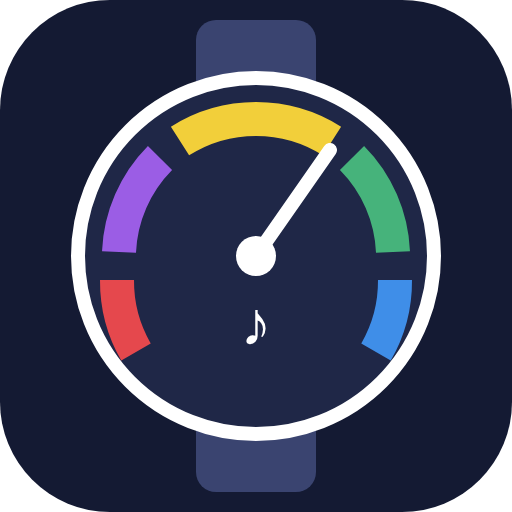
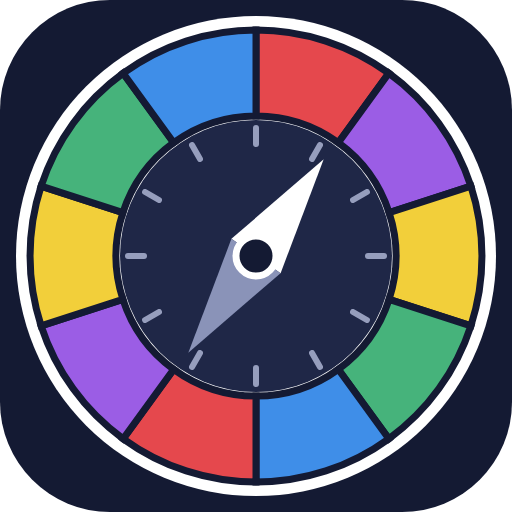
Musikkompass (früher Motion Watch): neuer Name, rundes Symbol, Schieben und Neigen links/rechts entfernt
Claude-Session: https://claude.ai/code/session_01FurwkA9ZNSYg6Y4Y358v2n

diff --git a/motion-watch/index.html b/motion-watch/index.html
@@ -3,15 +3,15 @@
 <head>
 <meta charset="utf-8">
 <meta name="viewport" content="width=device-width, initial-scale=1, viewport-fit=cover">
-<title>Motion Watch</title>
-<meta name="description" content="Motion Watch: Das Smartphone wie eine Uhr ans Handgelenk – durch Neigen spielst du die Töne einer Skala (Dur-/Moll-Pentatonik, Blues …).">
+<title>Musikkompass</title>
+<meta name="description" content="Musikkompass: iPad oder Handy flach hinlegen und Kreise fahren – oder neigen – und die Töne einer Skala spielen (Dur-/Moll-Pentatonik, Blues …).">
 <meta name="theme-color" content="#141a33">
 <link rel="icon" type="image/png" sizes="32x32" href="favicon-32.png">
 <link rel="apple-touch-icon" href="apple-touch-icon.png">
 <link rel="manifest" href="manifest.webmanifest">
 <meta name="apple-mobile-web-app-capable" content="yes">
 <meta name="mobile-web-app-capable" content="yes">
-<meta name="apple-mobile-web-app-title" content="Motion Watch">
+<meta name="apple-mobile-web-app-title" content="Musikkompass">
 <link rel="stylesheet" href="/fonts/fonts.css">
 <script data-goatcounter="https://pati2018.goatcounter.com/count" data-goatcounter-settings='{"path":"/motion-watch/"}' async src="//gc.zgo.at/count.js"></script>
 <style>
@@ -71,7 +71,7 @@
 </head>
 <body>
 <header>
-  <h1>⌚ Motion Watch</h1>
+  <h1><img src="icon.svg" alt="" width="34" height="34" style="vertical-align:-6px;border-radius:9px;margin-right:8px">Musikkompass</h1>
   <button class="knopf" id="bewKnopf" type="button" aria-pressed="false">📱 Bewegung: aus</button>
   <button class="knopf" id="mitteKnopf" type="button" hidden>⊕ Mitte</button>
   <button class="knopf" id="einstKnopf" type="button">⚙ Einstellen</button>
@@ -90,15 +90,13 @@
     <div class="zeile"><span>Anzahl Töne</span><select id="wAnzahl" aria-label="Anzahl Töne"></select></div>
     <div class="zeile"><span>Instrument</span><select id="wInst" aria-label="Instrument"></select></div>
     <div class="zeile"><span>Bewegung</span><select id="wModus" aria-label="Welche Bewegung spielt?">
-      <option value="dreh">🔄 Kreise fahren / drehen (flach)</option><option value="kreis">⭕ Im Kreis schieben (flach)</option>
-      <option value="vh">↕ Neigen vorne/hinten</option><option value="lr">↔ Neigen links/rechts</option></select></div>
-    <div class="zeile" id="zEmpf"><span>Empfindlich</span><select id="wEmpf" aria-label="Wie fest muss man schieben?">
-      <option value="0.4">sehr (kleine Kreise)</option><option value="0.8">mittel</option><option value="1.5">wenig (große Kreise)</option></select></div>
+      <option value="dreh">🔄 Kreise fahren / drehen (flach)</option>
+      <option value="vh">↕ Neigen vorne/hinten</option></select></div>
     <div class="zeile" id="zRicht"><span>Hohe Töne</span><select id="wRicht" aria-label="Wo sind die hohen Töne?">
-      <option value="1">vorne / rechts</option><option value="-1">hinten / links</option></select></div>
+      <option value="1">im Uhrzeigersinn</option><option value="-1">gegen den Uhrzeigersinn</option></select></div>
     <div class="zeile" id="zWeit"><span>Wie weit?</span><select id="wWeit" aria-label="Wie weit neigen?">
       <option value="30">wenig (± 30°)</option><option value="45">mittel (± 45°)</option><option value="60">stark (± 60°)</option></select></div>
-    <p class="tipp">„📱 Bewegung“ einschalten. 🔄 Kreise fahren: iPad/Handy liegt flach (z. B. auf dem Tisch am E-Rolli) und dreht sich mit – eine Runde = alle Töne. ⭕ Schieben: flach im Kreis über den Tisch schieben. Neigen: Handy wie eine Uhr ans Handgelenk. Jeder neue Ton auf der Uhr erklingt.
+    <p class="tipp">„📱 Bewegung“ einschalten. 🔄 Kreise fahren: iPad/Handy liegt flach (z. B. auf dem Tisch am E-Rolli) und dreht sich mit – eine Runde = alle Töne. Neigen: Handy wie eine Uhr ans Handgelenk. Jeder neue Ton auf der Uhr erklingt.
       Ohne Bewegung: Töne antippen, Tasten/SoundWhacker 1–9 oder Pfeiltasten ↑ ↓.</p>
     <button class="knopf" id="fertig" type="button">✓ Fertig</button>
   </div>
@@ -122,9 +120,10 @@ const KLAENGE={marimba:['Marimba',.96],klavier:['Klavier',.84],vibraphon:['Vibra
   klarinette:['Klarinette',.24],sopransax:['Sopransaxophon',.31],altsax:['Altsaxophon',.48],tenorsax:['Tenorsaxophon',.5]};
 const FARBEN=['var(--sw1)','var(--sw2)','var(--sw3)','var(--sw4)','var(--sw5)'];
 const SPEICHER='motion-watch';
-let st={grund:9, skala:'mollpenta', anzahl:10, inst:'marimba', modus:'dreh', empf:0.8, richt:1, weit:45};   // A-Moll-Pentatonik
+let st={grund:9, skala:'mollpenta', anzahl:10, inst:'marimba', modus:'dreh', richt:1, weit:45};   // A-Moll-Pentatonik
 try{Object.assign(st,JSON.parse(localStorage.getItem(SPEICHER)||'{}'))}catch(e){}
-if(!(st.v>=3)){ st.modus='dreh'; st.v=3; }   // neuer Standard: Kreise fahren = drehen (z. B. E-Rolli)
+if(!(st.v>=3)){ st.modus='dreh'; st.v=3; }
+if(st.modus!=='dreh'&&st.modus!=='vh') st.modus='dreh';   // „Im Kreis schieben“ und „Neigen links/rechts“ wurden entfernt   // neuer Standard: Kreise fahren = drehen (z. B. E-Rolli)
 const sichern=()=>{try{localStorage.setItem(SPEICHER,JSON.stringify(st))}catch(e){}};
 
 /* ---------- Töne der Skala ---------- */
@@ -170,7 +169,7 @@ const uhr=document.getElementById('uhr'), NS='http://www.w3.org/2000/svg';
 const el=(n,a)=>{const e=document.createElementNS(NS,n); for(const k in a) e.setAttribute(k,a[k]); return e};
 const pt=(w,r)=>[Math.sin(w*Math.PI/180)*r, -Math.cos(w*Math.PI/180)*r];   // 0° = oben, im Uhrzeigersinn
 let A0=0, A1=360; const R1=238, R0=150;    // rund (Kreise/Drehen) oder Bogen unten links → oben → unten rechts (Neigen)
-const rund=()=>st.modus==='kreis'||st.modus==='dreh';
+const rund=()=>st.modus==='dreh';
 let segs=[], zeiger, gTon, gSkala, gZeit, aktiv=-1;
 function zeichnen(){
   uhr.innerHTML=''; if(rund()){A0=0;A1=360;}else{A0=-135;A1=135;}
@@ -239,8 +238,7 @@ document.addEventListener('keyup',e=>gedrueckt.delete(e.code));
 document.addEventListener('pointerdown',()=>audio(),{once:true});
 
 /* ---------- Bewegung (Bewegungssensor) ----------
-   ⭕ Kreise: flach im Kreis schieben (Beschleunigung) · 🔄 Drehen: flach drehen (Gyro, alpha)
-   ↕/↔ Neigen: Winkelbereich ± „Wie weit“. Die Uhr ist in so viele Felder geteilt, wie die Skala Töne hat;
+   🔄 Kreise fahren / Drehen: flach liegend (Gyro, alpha) · ↕ Neigen vorne/hinten: Winkelbereich ± „Wie weit“. Die Uhr ist in so viele Felder geteilt, wie die Skala Töne hat;
    kommt der Zeiger in ein neues Feld, erklingt dessen Ton. */
 const hinweis=document.getElementById('hinweis');
 function zeige(t,ms){ hinweis.textContent=t; hinweis.hidden=false; clearTimeout(zeige._t); zeige._t=setTimeout(()=>hinweis.hidden=true,ms||2500); }
@@ -260,7 +258,7 @@ function zuFeld(pos){
 function aufOrientierung(e){
   if(e.beta==null||e.gamma==null) return;
   bekommen=true; roh=[e.beta,e.gamma,e.alpha];
-  if(!bewAn || st.modus==='kreis') return;
+  if(!bewAn) return;
   if(!mitte){ mitte=roh.slice(); }
   const n=TOENE.length;
   if(st.modus==='dreh'){   // flach liegend drehen: alpha (Kompass-Richtung, kommt vom Gyrosensor)
@@ -269,28 +267,11 @@ function aufOrientierung(e){
     return zuFeld(0.5+r/360*n);
   }
   // Neigen: vorne/hinten = beta (vorne → beta wird kleiner), links/rechts = gamma
-  let d = st.modus==='lr' ? roh[1]-mitte[1] : -(roh[0]-mitte[0]);
+  let d = -(roh[0]-mitte[0]);
   if(d>180) d-=360; if(d<-180) d+=360;
   d*=st.richt;
   zuFeld((d+st.weit)/(2*st.weit)*n);
 }
-/* Kreise schieben: Beim Schieben im Kreis zeigt die Beschleunigung immer zur Kreismitte –
-   ihre Richtung dreht sich einmal pro Runde mit. Daraus wird der Platz auf dem Kreis (= Ton). */
-let gx=0,gy=0,sx=0,sy=0;
-function aufBewegung(e){
-  let ax,ay;
-  if(e.acceleration && e.acceleration.x!=null){ ax=e.acceleration.x; ay=e.acceleration.y; }
-  else if(e.accelerationIncludingGravity && e.accelerationIncludingGravity.x!=null){
-    const a=e.accelerationIncludingGravity; gx=gx*.9+a.x*.1; gy=gy*.9+a.y*.1; ax=a.x-gx; ay=a.y-gy; }
-  else return;
-  bekommen=true;
-  if(!bewAn || st.modus!=='kreis') return;
-  sx=sx*.65+ax*.35; sy=sy*.65+ay*.35;                     // glätten
-  if(Math.hypot(sx,sy)<st.empf) return;                   // zu wenig Bewegung → nichts
-  const w=Math.atan2(sx,sy)*180/Math.PI+180;              // 0° = oberer Rand, im Uhrzeigersinn
-  zuFeld(((w*st.richt)+360)%360/360*TOENE.length);
-}
-window.addEventListener('devicemotion',aufBewegung);
 window.addEventListener('deviceorientation',aufOrientierung);
 async function wachHalten(an){
   try{ if(an && 'wakeLock' in navigator){ wachLock=await navigator.wakeLock.request('screen'); }
@@ -298,44 +279,41 @@ async function wachHalten(an){
 }
 document.addEventListener('visibilitychange',()=>{ if(bewAn && document.visibilityState==='visible') wachHalten(true); });
 function bewZeigen(){ bewKnopf.textContent='📱 Bewegung: '+(bewAn?'an':'aus'); bewKnopf.classList.toggle('an',bewAn);
-  bewKnopf.setAttribute('aria-pressed',bewAn); mitteKnopf.hidden=!bewAn||st.modus==='kreis'; }
+  bewKnopf.setAttribute('aria-pressed',bewAn); mitteKnopf.hidden=!bewAn; }
 async function bewegungEin(){
   audio();
   const DOE=window.DeviceOrientationEvent;
   if(!DOE){ zeige('Dieses Gerät hat keinen Bewegungssensor.'); return; }
-  const DME=window.DeviceMotionEvent;
-  if(typeof DOE.requestPermission==='function' || (DME && typeof DME.requestPermission==='function')){
-    try{ const P=(st.modus==='kreis'&&DME&&DME.requestPermission)?DME:DOE;
-         if(await P.requestPermission()!=='granted'){ zeige('Bewegung nicht erlaubt. Safari ganz schließen, neu öffnen und „Erlauben“ tippen.',4500); return; } }
+  if(typeof DOE.requestPermission==='function'){
+    try{ if(await DOE.requestPermission()!=='granted'){ zeige('Bewegung nicht erlaubt. Safari ganz schließen, neu öffnen und „Erlauben“ tippen.',4500); return; } }
     catch(e){ zeige('Bewegung konnte nicht eingeschaltet werden.',3500); return; }
   }
   bewAn=true; mitte=null; aktiv=-1; bewZeigen(); wachHalten(true);
-  zeige({kreis:'Handy/iPad flach hinlegen und im Kreis schieben!',dreh:'Flach hinlegen und Kreise fahren oder drehen!'}[st.modus]||'Hand ruhig halten – das ist jetzt die Mitte. Dann neigen!',3000);
+  zeige({dreh:'Flach hinlegen und Kreise fahren oder drehen!'}[st.modus]||'Hand ruhig halten – das ist jetzt die Mitte. Dann neigen!',3000);
   setTimeout(()=>{ if(bewAn && !bekommen){ bewAn=false; bewZeigen(); wachHalten(false); zeige('Kein Bewegungssensor gefunden (geht am iPhone/iPad).',4000); } },1500);
 }
 bewKnopf.addEventListener('click',()=>{ if(bewAn){ bewAn=false; bewZeigen(); wachHalten(false); } else bewegungEin(); });
-mitteKnopf.addEventListener('click',()=>{ mitte=roh?roh.slice():null; sx=sy=0; aktiv=-1; zeige('Neue Mitte gesetzt.',1500); });
+mitteKnopf.addEventListener('click',()=>{ mitte=roh?roh.slice():null; aktiv=-1; zeige('Neue Mitte gesetzt.',1500); });
 
 /* ---------- Einstellungen ---------- */
 const einst=document.getElementById('einst');
-const W={grund:'wGrund',skala:'wSkala',anzahl:'wAnzahl',inst:'wInst',modus:'wModus',empf:'wEmpf',richt:'wRicht',weit:'wWeit'};
+const W={grund:'wGrund',skala:'wSkala',anzahl:'wAnzahl',inst:'wInst',modus:'wModus',richt:'wRicht',weit:'wWeit'};
 for(const k in W) W[k]=document.getElementById(W[k]);
 TONNAME.forEach((n,i)=>W.grund.add(new Option(n,i)));
 for(const k in SKALEN) W.skala.add(new Option(SKALEN[k].n,k));
 for(let i=5;i<=15;i++) W.anzahl.add(new Option(i+' Töne',i));
 for(const k in KLAENGE) W.inst.add(new Option(KLAENGE[k][0],k));
-const ZAHL=['grund','anzahl','richt','weit','empf'];
+const ZAHL=['grund','anzahl','richt','weit'];
 for(const k in W) W[k].addEventListener('change',()=>{
   st[k]=ZAHL.includes(k)?+W[k].value:W[k].value; sichern(); neu();
   if(['grund','skala','anzahl','inst'].includes(k)) spieleIndex(0);
-  if(['modus','richt','weit','empf'].includes(k)){ mitte=null; aktiv=-1; zeilenZeigen(); bewZeigen(); }
+  if(['modus','richt','weit'].includes(k)){ mitte=null; aktiv=-1; zeilenZeigen(); bewZeigen(); }
 });
 function zeilenZeigen(){
   const r=rund();
-  document.getElementById('zEmpf').hidden=st.modus!=='kreis';
-  document.getElementById('zWeit').hidden=r;
-  W.richt.options[0].text=r?'im Uhrzeigersinn':'vorne / rechts';
-  W.richt.options[1].text=r?'gegen den Uhrzeigersinn':'hinten / links';
+    document.getElementById('zWeit').hidden=r;
+  W.richt.options[0].text=r?'im Uhrzeigersinn':'vorne';
+  W.richt.options[1].text=r?'gegen den Uhrzeigersinn':'hinten';
 }
 function auf(){ for(const k in W) W[k].value=st[k]; zeilenZeigen(); einst.hidden=false; document.getElementById('fertig').focus(); }
 function zu(){ einst.hidden=true; document.getElementById('einstKnopf').focus(); }

diff --git a/apps.js b/apps.js
@@ -27,12 +27,13 @@ window.APPS = [
   {
     id: "motion-watch",
     zaehler: "/motion-watch/",
-    titel: "Motion Watch",
-    kurz: "iPad oder Handy flach auf den Tisch legen und Kreise fahren (oder drehen, oder wie eine Uhr am Handgelenk neigen) – so spielst du die Töne einer Skala: Dur- oder Moll-Pentatonik, Blues, Dur, Moll. Grundton, Anzahl Töne und Instrument einstellbar.",
+    titel: "Musikkompass",
+    kurz: "Eine runde, bunte Klangscheibe: iPad oder Handy flach hinlegen und Kreise fahren (z. B. am E-Rolli) oder drehen – eine Runde spielt alle Töne einer Skala. Oder wie eine Uhr am Handgelenk nach vorne/hinten neigen. Dur-/Moll-Pentatonik, Blues, Dur, Moll; Grundton, Anzahl Töne und Instrument einstellbar.",
     link: "https://pati2018.github.io/motion-watch/",
     repo: "https://github.com/pati2018/pati2018.github.io/tree/main/motion-watch",
     kategorie: "Musik",
-    symbol: "⌚",
+    symbol: "🧭",
+    bild: "motion-watch/icon-192.png",
     datum: "2026-11-26"
   },
   {

diff --git a/anleitungen/motion-watch.md b/anleitungen/motion-watch.md
@@ -1,8 +1,8 @@
 ## Worum geht es?
 
-Die **Motion Watch** macht dein Smartphone zu einem Instrument, das du am Handgelenk trägst. Du legst das iPad oder Handy **flach hin und fährst Kreise** – z. B. mit dem E-Rolli – oder drehst es, oder trägst es **wie eine Uhr** am Handgelenk und neigst die Hand. Jede Bewegung spielt Töne. Die Töne kommen aus einer **Skala**, z. B. der Moll-Pentatonik. So klingt es immer passend.
+Der **Musikkompass** macht dein iPad oder Handy zu einem Instrument. Du legst es **flach hin und fährst Kreise** – z. B. auf dem Tisch am E-Rolli – oder drehst es, oder trägst es **wie eine Uhr** am Handgelenk und neigst die Hand. Jede Bewegung spielt Töne. Die Töne kommen aus einer **Skala**, z. B. der Moll-Pentatonik. So klingt es immer passend.
 
-Auf dem Bildschirm siehst du eine **Uhr**: Rundherum stehen die Töne in bunten Feldern (Farben wie in der SoundWhacker Band: rot, lila, gelb, grün, blau), der **Zeiger** folgt deiner Bewegung, in der Mitte steht groß der Ton, der gerade klingt.
+Auf dem Bildschirm siehst du eine runde, bunte Scheibe wie bei einem **Kompass**: Rundherum stehen die Töne in bunten Feldern (Farben wie in der SoundWhacker Band: rot, lila, gelb, grün, blau), der **Zeiger** folgt deiner Bewegung, in der Mitte steht groß der Ton, der gerade klingt.
 
 ## So geht's
 
@@ -12,11 +12,9 @@ Auf dem Bildschirm siehst du eine **Uhr**: Rundherum stehen die Töne in bunten 
 | Bewegung | So spielst du |
 |---|---|
 | **🔄 Kreise fahren / drehen** (Standard) | iPad oder Handy liegt **flach**, z. B. auf dem **Tisch am E-Rolli**. Fährt der E-Rolli Kreise, dreht sich das Gerät mit – **eine Runde = alle Töne** der Skala, im Uhrzeigersinn aufwärts. Geht auch, wenn du das Gerät auf dem Tisch drehst wie ein Lenkrad. |
-| **⭕ Im Kreis schieben** | Gerät flach auf dem Tisch **im Kreis schieben**, ohne es zu drehen. Schnelle Kreise = schnelle Töne. |
 | **↕ Neigen vorne/hinten** | Handy **wie eine Uhr ans Handgelenk** (lange Seite zu den Fingern). Hand ruhig halten (= Mitte), dann nach vorne neigen = höher, nach hinten = tiefer. |
-| **↔ Neigen links/rechts** | wie oben, nur seitlich neigen. |
 
-- Bei Kreisen und Drehen liegen die Töne **rundherum wie die Stunden einer Uhr** – der Zeiger zeigt, wo du gerade bist.
+- Beim Kreise fahren liegen die Töne **rundherum wie die Stunden einer Uhr** – der Zeiger zeigt, wo du gerade bist.
 - **⊕ Mitte** (bei Drehen und Neigen) – die jetzige Lage wird der neue Anfang.
 - Der Bildschirm bleibt an, solange die Bewegung eingeschaltet ist.
 - **Tipp:** Die **Ausrichtungssperre** im Kontrollzentrum einschalten.
@@ -29,9 +27,8 @@ Auf dem Bildschirm siehst du eine **Uhr**: Rundherum stehen die Töne in bunten 
 | **Skala** | Dur-Pentatonik, **Moll-Pentatonik** (Standard), Blues-Skala (Moll), Blues-Skala (Dur), Dur-Tonleiter, Moll-Tonleiter |
 | **Anzahl Töne** | 5 bis 15 – wenige Töne = große Felder, leicht zu treffen |
 | **Instrument** | Marimba, Klavier, Vibraphon, Kalimba, Gitarre, Flöten, Saxophone und mehr |
-| **Bewegung** | 🔄 Kreise fahren / drehen, ⭕ Im Kreis schieben, ↕ Neigen vorne/hinten, ↔ Neigen links/rechts |
-| **Empfindlich** (nur Schieben) | sehr (kleine Kreise reichen), mittel, wenig (nur große, kräftige Kreise) |
-| **Hohe Töne** | im / gegen den Uhrzeigersinn – beim Neigen: vorne/rechts oder hinten/links |
+| **Bewegung** | 🔄 Kreise fahren / drehen oder ↕ Neigen vorne/hinten |
+| **Hohe Töne** | im / gegen den Uhrzeigersinn – beim Neigen: vorne oder hinten |
 | **Wie weit?** (nur Neigen) | wenig (± 30°), mittel (± 45°), stark (± 60°) |
 
 Die App merkt sich alle Einstellungen.
@@ -45,6 +42,6 @@ Die App merkt sich alle Einstellungen.
 ## Tipps
 
 - **Kein Ton?** Einmal auf den Bildschirm tippen. Am iPhone den Stummschalter prüfen.
-- Läuft im Hintergrund Musik (z. B. GarageBand), spielt die Motion Watch einfach mit – z. B. zu einem Blues-Begleitstück in A die **A-Moll-Pentatonik** oder die **Blues-Skala**.
+- Läuft im Hintergrund Musik (z. B. GarageBand), spielt der Musikkompass einfach mit – z. B. zu einem Blues-Begleitstück in A die **A-Moll-Pentatonik** oder die **Blues-Skala**.
 - Fragt das iPhone nicht nach der Bewegung: Safari ganz schließen, neu öffnen, noch einmal „📱 Bewegung“ tippen.
 - Die App braucht zum Spielen noch Internet.

diff --git a/CLAUDE.md b/CLAUDE.md
@@ -112,15 +112,13 @@ Braucht ein Chat ein Repo, das nicht in der Sitzung ist, holt er es sich dazu
     danach die übrigen nach Datum
     (neueste oben); Singen ganz unten (`ganzUnten: 1`). Die App **Atemklang** wurde auf Wunsch entfernt (Ordner und Eintrag gelöscht; steckt noch in der Git-Geschichte).
     Die Kacheln auf der Erklärseite `ki-betriebssystem/` stehen in derselben Reihenfolge.
-    - `motion-watch/` – **Motion Watch** (26.11.2026, Idee aus dem Workshop wie Trommelball): Handy wie eine Uhr ans Handgelenk (lange Seite zu den Fingern).
-      Uhr-Ansicht: Bogen mit den Tönen der Skala (SW-Farben reihum), Zeiger folgt der Neigung, großer Tonname in der Mitte, Uhrzeit unten.
-      **Bewegung `st.modus`** (Wunsch Nutzer: Gyro; „Kreise fahren“ = Gerät liegt flach, z. B. auf dem Tisch am **E-Rolli**, und dreht sich mit, wenn der E-Rolli Kreise fährt):
-      **🔄 `dreh`** (Standard, alte Speicherstände werden per `st.v=3` umgestellt) = `alpha` (Gyro) relativ zur Mitte, 1 Umdrehung = alle Töne; **⭕ `kreis`** = flach im Kreis schieben ohne Drehen –
-      `devicemotion`, Richtung der geglätteten Beschleunigung +180°, Schwelle `st.empf` 0,4/0,8/1,5 m/s². Bei beiden Töne rundum (360°, Ton 1 oben, im Uhrzeigersinn aufwärts), Zeiger nur am Rand.
-      Ein Modus **„💪 Arm heben“** (0–180°, Schwerkraft-Winkel) wurde ausprobiert und auf Wunsch wieder entfernt („vorher war besser“) – nicht erneut einbauen, steckt in der Git-Geschichte.
-      **Farben wie in der SoundWhacker Band** (rot #e5484d, lila #9b5de5, gelb #f2cf3a, grün #46b37b, blau #3f8ee8 – Wunsch Nutzer). Sicherung vor diesem Umbau: Branch `stabil/motion-watch-v1.0`.
-      **Neigen** (`vh` vorne ↔ hinten = Richtung Feld 2/4 wie im Trommelball, `beta`; `lr` links ↔ rechts = `gamma`; Bogen statt Kreis): Winkelbereich ± `st.weit` (30/45/60°) wird in `st.anzahl` Felder geteilt,
-      neues Feld = Ton (kleine Schwelle gegen Flattern); vorne = hohe Töne (`st.richt` umkehrbar). Mitte = Haltung beim Einschalten, „⊕ Mitte“. Gerätachsen, nicht Bildschirmachsen (Bildschirm darf sich drehen).
+    - `motion-watch/` – **Musikkompass** (26.11.2026, früher „Motion Watch“ – umbenannt auf Wunsch Nutzer, **Ordner bleibt `motion-watch/`**, GoatCounter-Pfad `/motion-watch/`).
+      Symbol `motion-watch/icon.svg` = runde bunte Scheibe (10 Felder in Band-Farben) mit Kompassnadel; in `apps.js` als `bild`. Ansicht: Scheibe mit den Tönen der Skala, Zeiger am Rand, großer Tonname in der Mitte, Uhrzeit.
+      **Bewegung `st.modus`** – nur noch zwei Arten: **🔄 `dreh`** (Standard) = Gerät liegt flach, z. B. auf dem Tisch am **E-Rolli**, und dreht sich mit, wenn der E-Rolli Kreise fährt –
+      `alpha` (Gyro) relativ zur Mitte, 1 Umdrehung = alle Töne, Töne rundum (Ton 1 oben, im Uhrzeigersinn aufwärts); **↕ `vh`** = Neigen vorne/hinten (Handy wie eine Uhr am Handgelenk, `beta`, Bogen statt Kreis,
+      ± `st.weit` 30/45/60°, Mitte = Haltung beim Einschalten, „⊕ Mitte“). Neues Feld = Ton (kleine Schwelle gegen Flattern), `st.richt` kehrt die Richtung um.
+      **Auf Wunsch entfernt** (nicht wieder einbauen, stecken in der Git-Geschichte): „⭕ Im Kreis schieben“ (devicemotion), „↔ Neigen links/rechts“, „💪 Arm heben“. Alte Speicherstände mit diesen Arten → `dreh`.
+      **Farben wie in der SoundWhacker Band** (rot #e5484d, lila #9b5de5, gelb #f2cf3a, grün #46b37b, blau #3f8ee8 – Wunsch Nutzer). Sicherung der ersten Fassung: Branch `stabil/motion-watch-v1.0`.
       Skalen `SKALEN`: Dur-/Moll-Pentatonik, Blues (Moll), Blues (Dur), Dur, Moll; Grundton C–H, 5–15 Töne, Instrumente aus `../tischharfe/klaenge/` (Samples 54–81 je 3 Halbtöne).
       Standard A-Moll-Pentatonik, 10 Töne, Marimba. Auch antippen/streichen, Tasten/SW 1–9, Pfeile ↑↓. Bildschirm bleibt an (Wake Lock). Speicher `motion-watch`. Noch ohne Offline-Speicher und ohne Kachel in `ki-betriebssystem/`.
     - `trommelball/` – **Trommelball** (Entwurf aus einem Workshop, 26.11.2026): großer Ball mit 4 Flächen (links rot = SW1/Taste 1, oben orange = 2, rechts gelb = 3, unten grün = 4,

diff --git a/README.md b/README.md
@@ -41,7 +41,7 @@ Speichern, committen – nach ca. einer Minute ist die App auf der Seite.
 | `fagott/` | Fagott – Klänge in `klang/` (GeneralUser GS, Bassoon); Lieder kommen aus `../tischharfe/lieder.js` |
 | `singen/` | Singen mit SoundWhackern; `stimme.js` ist die künstliche Singstimme (Formant-Synthese) |
 | `ki-os/` | Erklärseite „Mein KI-Betriebssystem“ (allgemein: Gedächtnis, Skills & Plugins, Connectors, Routinen); verlinkt von `ki-betriebssystem/` |
-| `motion-watch/` | Motion Watch: Handy wie eine Uhr am Handgelenk, Neigen spielt die Töne einer Skala (Pentatonik, Blues, Dur, Moll) |
+| `motion-watch/` | Musikkompass (früher „Motion Watch“): flach liegend Kreise fahren/drehen oder neigen spielt die Töne einer Skala (Pentatonik, Blues, Dur, Moll) |
 | `trommelball/` | Trommelball: Ball mit 4 Flächen, jede spielt ein Schlagzeug-Instrument (einstellbar, 6 Sets, Tasten 1–4) |
 | `visitenkarte/` | Digitale Visitenkarte (QR-Code → Karte → „Kontakt speichern“ als vCard), offline nutzbar |
 | `ki-betriebssystem/` | Erklärseite „So entstehen meine Apps“ (Schaubild, verlinkt alle Musik-Apps); keine App, darum nicht in `apps.js` |
